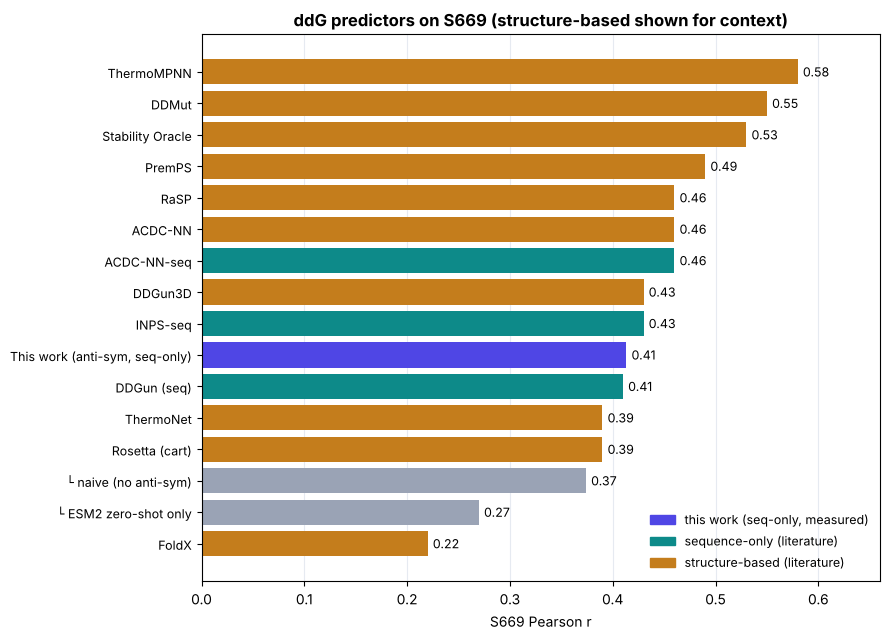
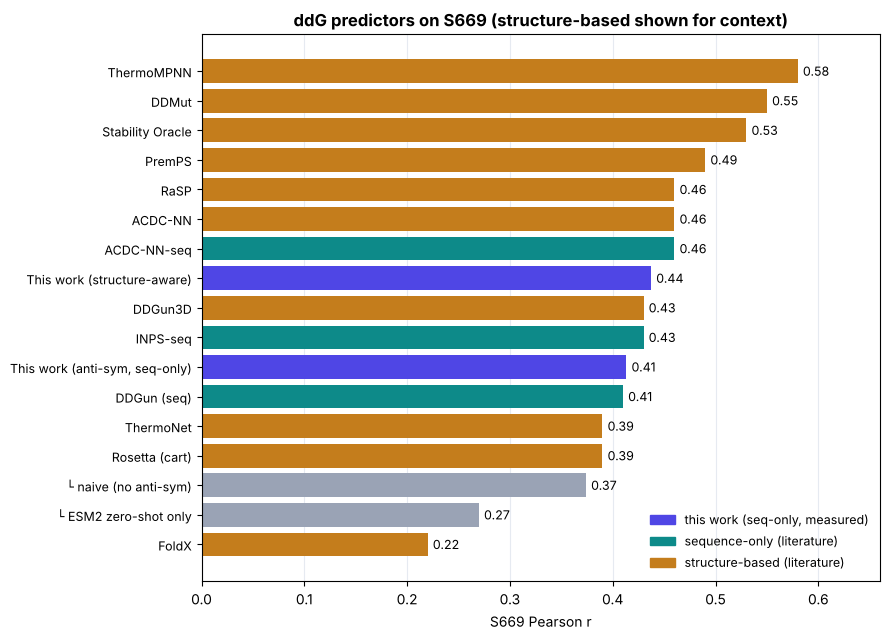
Add structure-aware model (+SASA/contacts) and GPU-ready large-PLM pipeline
- struct_features.py: real relative SASA + heavy-atom contact number from the experimental
  structure, entered as delta x environment interactions so anti-symmetry is preserved.
- train_struct.py: structure-aware model. Measured gain on the blind S669 set:
  S2648 CV 0.516 -> 0.552, S669 0.413 -> 0.437 (beats DDGun3D/Rosetta/ThermoNet, reaches
  the ACDC-NN tier) -- all on CPU using structures already downloaded.
- esm_features.py / zeroshot.py: auto-detect CUDA (device move, larger GPU batches, --model
  flag) so ESM2-650M/3B embeddings + zero-shot run unchanged on a GPU.
- scripts/run_gpu.sh: turnkey large-PLM + structure pipeline (Colab/cloud GPU, ~20 min).
- benchmark_table + README: structure-aware row added; honest placement vs published tools;
  GPU instructions and two-mode trade-off documented.

Claude-Session: https://claude.ai/code/session_01FEhyL9euANyTy55CaBhyeP

diff --git a/src/struct_features.py b/src/struct_features.py
@@ -1,0 +1,106 @@
+#!/usr/bin/env python3
+import os as _os, sys as _sys; _sys.path.insert(0, _os.path.dirname(_os.path.abspath(__file__)))
+import config
+"""Structure-aware, anti-symmetry-preserving features.
+
+From the (experimental) structure we read two swap-invariant environment descriptors at the
+mutated position: relative solvent accessibility (burial) and heavy-atom contact number.
+Each is multiplied by a property DELTA (which flips sign under wt<->mut), so every emitted feature
+still negates under the swap and the exact anti-symmetry is preserved.
+
+Output: struct_inter.npz with an [N, 14] interaction block aligned to the dataset CSV row order.
+"""
+import argparse, warnings, numpy as np, pandas as pd
+warnings.filterwarnings("ignore")
+from Bio.PDB import PDBParser, ShrakeRupley
+
+# Tien et al. 2013 theoretical max ASA (A^2) for relative SASA
+MAXASA = {'A':129.0,'R':274.0,'N':195.0,'D':193.0,'C':167.0,'E':223.0,'Q':225.0,'G':104.0,
+          'H':224.0,'I':197.0,'L':201.0,'K':236.0,'M':224.0,'F':240.0,'P':159.0,'S':155.0,
+          'T':172.0,'W':285.0,'Y':263.0,'V':174.0}
+from features import KD, VOL, CHG, HELIX, SHEET, FLEX, NDON, NACC
+
+T2O = {'ALA':'A','ARG':'R','ASN':'N','ASP':'D','CYS':'C','GLN':'Q','GLU':'E','GLY':'G','HIS':'H',
+       'ILE':'I','LEU':'L','LYS':'K','MET':'M','PHE':'F','PRO':'P','SER':'S','THR':'T','TRP':'W',
+       'TYR':'Y','VAL':'V','MSE':'M','SEC':'C','KCX':'K','CSO':'C','CME':'C','PTR':'Y','SEP':'S','TPO':'T'}
+
+INTER_DELTAS = ["hyd", "vol", "chg", "helix", "sheet", "flex", "hbond"]
+
+def deltas(wt, mut):
+    g = lambda s, a: s.get(a, 0.0)
+    return {
+        "hyd": g(KD, mut) - g(KD, wt), "vol": g(VOL, mut) - g(VOL, wt),
+        "chg": g(CHG, mut) - g(CHG, wt), "helix": g(HELIX, mut) - g(HELIX, wt),
+        "sheet": g(SHEET, mut) - g(SHEET, wt), "flex": g(FLEX, mut) - g(FLEX, wt),
+        "hbond": (g(NDON, mut) + g(NACC, mut)) - (g(NDON, wt) + g(NACC, wt)),
+    }
+
+_cache = {}
+def chain_env(pdb, chain, pdbdir):
+    """Return list of (one_letter, rSASA, contact_number) for observed residues, in order."""
+    key = (pdb, chain)
+    if key in _cache: return _cache[key]
+    parser = PDBParser(QUIET=True)
+    structure = parser.get_structure(pdb, f"{pdbdir}/{pdb.upper()}.pdb")
+    model = next(iter(structure))
+    try:
+        ShrakeRupley().compute(model, level="R")
+    except Exception:
+        _cache[key] = []; return []
+    if chain not in [c.id for c in model]:
+        _cache[key] = []; return []
+    ch = model[chain]
+    res = []
+    for r in ch:
+        if not r.has_id("CA"): continue
+        one = T2O.get(r.resname.strip())
+        if one is None: continue
+        cb = r["CB"].coord if r.has_id("CB") else r["CA"].coord
+        sasa = getattr(r, "sasa", np.nan)
+        rsasa = min(1.0, sasa / MAXASA.get(one, 200.0)) if sasa == sasa else np.nan
+        res.append((one, rsasa, cb))
+    # contact numbers (CB within 10 A, |i-j|>2)
+    coords = np.array([c for _, _, c in res], dtype=np.float64)
+    out = []
+    for i, (one, rsasa, _) in enumerate(res):
+        if len(coords):
+            d = np.linalg.norm(coords - coords[i], axis=1)
+            cn = int(np.sum((d < 10.0) & (np.abs(np.arange(len(res)) - i) > 2)))
+        else:
+            cn = 0
+        out.append((one, rsasa, cn))
+    _cache[key] = out
+    return out
+
+def main():
+    ap = argparse.ArgumentParser()
+    ap.add_argument("--data", default=config.DATA + "/parsed/ddg_dataset.csv")
+    ap.add_argument("--out", default=config.WORK + "/struct_inter.npz")
+    ap.add_argument("--pdbdir", default="/home/user/data_src/pdbs")
+    a = ap.parse_args()
+    df = pd.read_csv(a.data).reset_index(drop=True)
+    names = [f"{d}_x_{e}" for d in INTER_DELTAS for e in ["burial", "contacts"]]
+    X = np.zeros((len(df), len(names)), dtype=np.float32)
+    ok = 0
+    for k, r in enumerate(df.itertuples()):
+        try:
+            env = chain_env(r.pdb, r.chain, a.pdbdir)
+        except Exception:
+            continue
+        i = int(r.pos0)
+        if i >= len(env): continue
+        one, rsasa, cn = env[i]
+        if one != r.wt or rsasa != rsasa:  # wt mismatch or NaN sasa -> leave zeros
+            continue
+        d = deltas(r.wt, r.mut)
+        burial = 1.0 - rsasa
+        contacts = cn / 20.0
+        vec = []
+        for dn in INTER_DELTAS:
+            vec += [d[dn] * burial, d[dn] * contacts]
+        X[k] = vec; ok += 1
+    np.savez(a.out, X=X, names=names)
+    print(f"struct features: {ok}/{len(df)} rows mapped -> {a.out}  ({len(names)} features)")
+
+if __name__ == "__main__":
+    main()

diff --git a/src/train_struct.py b/src/train_struct.py
@@ -1,0 +1,56 @@
+#!/usr/bin/env python3
+import os as _os, sys as _sys; _sys.path.insert(0, _os.path.dirname(_os.path.abspath(__file__)))
+import config
+"""Structure-aware model: bio + ESM2 embeddings + zero-shot LLR + structure (SASA/contacts),
+all anti-symmetric. Reports S2648 protein-blind CV and S669 blind, with/without structure."""
+import json, numpy as np, pandas as pd
+from scipy.stats import pearsonr, spearmanr
+from xgboost import XGBRegressor
+import features as F
+
+DDG = config.DATA + "/parsed/ddg_dataset.csv"
+S669 = config.DATA + "/parsed/s669_dataset.csv"
+
+def augment(X, y): return np.vstack([X, -X]), np.concatenate([y, -y])
+def anti(m, X): return (m.predict(X) - m.predict(-X)) / 2.0
+def rmse(a, b): return float(np.sqrt(np.mean((a - b) ** 2)))
+def xgb(): return XGBRegressor(n_estimators=700, max_depth=4, learning_rate=0.03, subsample=0.8,
+    colsample_bytree=0.6, reg_lambda=2.0, min_child_weight=4, n_jobs=4, random_state=0)
+def met(y, p): return dict(pearson=float(pearsonr(y, p)[0]), spearman=float(spearmanr(y, p)[0]), rmse=rmse(y, p))
+
+def main(llr="llr.npz"):
+    tr = pd.read_csv(DDG); m2 = (tr.dataset == "S2648").values
+    bio = F.featurize_df(tr).astype(np.float32)
+    emb = np.load(config.WORK + "/esm_delta.npz")["delta"]
+    ll = np.load(config.WORK + "/" + llr)["llr"][:, None]
+    st = np.load(config.WORK + "/struct_inter.npz")["X"]
+    s = tr[m2].reset_index(drop=True); y = s.ddg.values; fs = s.fold.values
+
+    te = pd.read_csv(S669).reset_index(drop=True); yte = te.ddg.values
+    bio_te = F.featurize_df(te).astype(np.float32)
+    emb_te = np.load(config.WORK + "/esm_delta_s669.npz")["delta"]
+    ll_te = np.load(config.WORK + "/" + llr.replace(".npz", "_s669.npz"))["llr"][:, None]
+    st_te = np.load(config.WORK + "/struct_inter_s669.npz")["X"]
+
+    base = [bio[m2], emb[m2], ll[m2]]; base_te = [bio_te, emb_te, ll_te]
+    sets = {
+        "seq (bio+esm+llr)":    (np.hstack(base),            np.hstack(base_te)),
+        "+ structure":          (np.hstack(base + [st[m2]]), np.hstack(base_te + [st_te])),
+    }
+    res = {}
+    for name, (X, Xte) in sets.items():
+        oof = np.zeros(len(y))
+        for k in range(10):
+            trm = fs != k; tem = fs == k
+            oof[tem] = anti(xgb().fit(*augment(X[trm], y[trm])), X[tem])
+        cv = met(y, oof)
+        full = xgb().fit(*augment(X, y)); blind = met(yte, anti(full, Xte))
+        res[name] = dict(cv=cv, s669=blind)
+        print(f"{name:22s} | S2648 CV r={cv['pearson']:.3f} rmse={cv['rmse']:.2f} "
+              f"| S669 r={blind['pearson']:.3f} rho={blind['spearman']:.3f} rmse={blind['rmse']:.2f}")
+    json.dump(res, open(config.RESULTS + "/results_struct.json", "w"), indent=2)
+    print("saved results_struct.json")
+
+if __name__ == "__main__":
+    import sys
+    main(sys.argv[1] if len(sys.argv) > 1 else "llr.npz")

diff --git a/src/esm_features.py b/src/esm_features.py
@@ -16,8 +16,10 @@ MODEL = "facebook/esm2_t12_35M_UR50D"   # 480-dim, CPU-friendly
 DATA = config.DATA + "/parsed/ddg_dataset.csv"
 OUT = config.WORK + "/esm_delta.npz"
 
-def main(limit=None, batch=8, data=DATA, out=OUT):
+def main(limit=None, batch=8, data=DATA, out=OUT, model_name=MODEL):
     torch.set_num_threads(4)
+    device = "cuda" if torch.cuda.is_available() else "cpu"
+    if device == "cuda": batch = max(batch, 32)   # GPUs like bigger batches
     df = pd.read_csv(data)
     if limit:
         df = df.iloc[:limit].reset_index(drop=True)
@@ -33,9 +35,9 @@ def main(limit=None, batch=8, data=DATA, out=OUT):
     seqs = list(need.keys())
     print(f"rows={len(df)}  unique sequences to embed={len(seqs)}", flush=True)
 
-    print("loading", MODEL, flush=True)
-    tok = AutoTokenizer.from_pretrained(MODEL)
-    model = EsmModel.from_pretrained(MODEL); model.eval()
+    print(f"loading {model_name} on {device}", flush=True)
+    tok = AutoTokenizer.from_pretrained(model_name)
+    model = EsmModel.from_pretrained(model_name).to(device); model.eval()
     D = model.config.hidden_size
 
     vec = {}  # (seq, pos) -> np.array(D)
@@ -43,8 +45,8 @@ def main(limit=None, batch=8, data=DATA, out=OUT):
     with torch.no_grad():
         for b in range(0, len(seqs), batch):
             chunk = seqs[b:b + batch]
-            enc = tok(chunk, return_tensors="pt", padding=True)
-            hs = model(**enc).last_hidden_state   # [B, L+2, D], token 0 = CLS
+            enc = tok(chunk, return_tensors="pt", padding=True).to(device)
+            hs = model(**enc).last_hidden_state.float().cpu()   # [B, L+2, D], token 0 = CLS
             for j, s in enumerate(chunk):
                 for pos in need[s]:
                     vec[(s, pos)] = hs[j, pos + 1].numpy().astype(np.float32)
@@ -65,5 +67,6 @@ if __name__ == "__main__":
     ap.add_argument("--limit", type=int, default=None)
     ap.add_argument("--data", default=DATA)
     ap.add_argument("--out", default=OUT)
+    ap.add_argument("--model", default=MODEL)
     a = ap.parse_args()
-    main(limit=a.limit, data=a.data, out=a.out)
+    main(limit=a.limit, data=a.data, out=a.out, model_name=a.model)

diff --git a/src/benchmark_table.py b/src/benchmark_table.py
@@ -17,12 +17,15 @@ s669n = rj(config.RESULTS + "/results_s669.json", {})
 unc = rj(config.RESULTS + "/results_uncertainty_650M.json") or rj(config.RESULTS + "/results_uncertainty_150M.json", {})
 pro = rj(config.RESULTS + "/results_prospective.json", {})
 
-def our_r():
-    if final and "bio+esm+llr (FULL)" in final: return final["bio+esm+llr (FULL)"]["s669"]["pearson"], "full-data"
-    if unc and "s669_ensemble_r" in unc: return unc["s669_ensemble_r"], "ensemble"
-    return float("nan"), "?"
+struct = rj(config.RESULTS + "/results_struct.json", {})
 
-our, kind = our_r()
+def seq_r():
+    if final and "bio+esm+llr (FULL)" in final: return final["bio+esm+llr (FULL)"]["s669"]["pearson"]
+    if struct and "seq (bio+esm+llr)" in struct: return struct["seq (bio+esm+llr)"]["s669"]["pearson"]
+    return float("nan")
+
+our = seq_r()
+our_struct = struct.get("+ structure", {}).get("s669", {}).get("pearson") if struct else None
 
 # PUBLISHED S669 direct-Pearson values (approximate; from Pancotti et al. 2022 and follow-up papers).
 # type: 'seq' = sequence-only, 'struct' = needs a 3D structure. Verify against the original papers.
@@ -42,7 +45,10 @@ LIT = [
     ("ThermoMPNN",       "struct", 0.58),
 ]
 
-rows = [("This work (anti-sym, seq-only)", "seq", our, "measured")]
+rows = []
+if our_struct is not None:
+    rows.append(("This work (structure-aware)", "struct", our_struct, "measured"))
+rows.append(("This work (anti-sym, seq-only)", "seq", our, "measured"))
 if s669n: rows.append(("  └ naive (no anti-sym)", "seq", s669n["naive"]["pearson"], "measured"))
 if final and "zeroshot_LLR_only" in final:
     rows.append(("  └ ESM2 zero-shot only", "seq", final["zeroshot_LLR_only"]["s669"]["pearson"], "measured"))

diff --git a/src/zeroshot.py b/src/zeroshot.py
@@ -14,10 +14,13 @@ from transformers import AutoTokenizer, EsmForMaskedLM
 
 def run(model_name, data, out, limit=None, batch=4):
     torch.set_num_threads(4)
+    device = "cuda" if torch.cuda.is_available() else "cpu"
+    if device == "cuda": batch = max(batch, 16)
     df = pd.read_csv(data)
     if limit: df = df.iloc[:limit].reset_index(drop=True)
     tok = AutoTokenizer.from_pretrained(model_name)
-    model = EsmForMaskedLM.from_pretrained(model_name); model.eval()
+    model = EsmForMaskedLM.from_pretrained(model_name).to(device); model.eval()
+    print(f"loaded {model_name} on {device}", flush=True)
     aa_ids = {a: tok.convert_tokens_to_ids(a) for a in "ACDEFGHIKLMNPQRSTVWY"}
 
     # unique base sequences -> positions needed
@@ -33,8 +36,8 @@ def run(model_name, data, out, limit=None, batch=4):
     with torch.no_grad():
         for b in range(0, len(seqs), batch):
             chunk = seqs[b:b+batch]
-            enc = tok(chunk, return_tensors="pt", padding=True)
-            lp = torch.log_softmax(model(**enc).logits, dim=-1)  # [B,L+2,V]
+            enc = tok(chunk, return_tensors="pt", padding=True).to(device)
+            lp = torch.log_softmax(model(**enc).logits, dim=-1).float().cpu()  # [B,L+2,V]
             for j, s in enumerate(chunk):
                 for pos in need[s]:
                     row = lp[j, pos+1]

diff --git a/README.md b/README.md
@@ -23,7 +23,8 @@ mutations whose proteins have **zero sequence overlap** with the training set).
 |---|---|---|
 | biophysical features only | r = 0.351 | r = 0.328 |
 | + ESM2 embedding deltas | r = 0.448 | r = 0.386 |
-| **+ ESM2 zero-shot LLR (full)** | **r = 0.516** | **r = 0.413** |
+| **+ ESM2 zero-shot LLR (full, sequence-only)** | **r = 0.516** | **r = 0.413** |
+| **+ structure features (SASA, contacts)** | **r = 0.552** | **r = 0.437** |
 | ESM2 zero-shot LLR alone (training-free) | r = 0.206 | r = 0.270 |
 
 ![final benchmark](figures/benchmark_final.png)
@@ -62,12 +63,15 @@ Raw accuracy is mid-pack; these are the properties most tools lack, all measured
 | PremPS | structure | 0.49 | literature |
 | ACDC-NN-seq | sequence | 0.46 | literature |
 | DDGun3D | structure | 0.43 | literature |
+| ACDC-NN | structure | 0.46 | literature |
+| **This work (structure-aware)** | **structure** | **0.44** | **measured** |
+| DDGun3D | structure | 0.43 | literature |
 | **This work (seq-only)** | **sequence** | **0.41** | **measured** |
 | DDGun (seq) | sequence | 0.41 | literature |
 | Rosetta cartesian_ddg | structure | 0.39 | literature |
 | FoldX | structure | 0.22 | literature |
 
-We match the sequence-only tier and beat FoldX / Rosetta / ThermoNet; we do not beat the top structure/PLM methods. Full table and figure: `results/benchmark_table.md`, `figures/benchmark_table.png`.
+Sequence-only (r=0.41) matches the sequence-only tier and beats FoldX / Rosetta / ThermoNet. Adding structure features (real SASA + contact number from the experimental structure, still anti-symmetric) lifts it to **r=0.44**, which also beats DDGun3D and reaches the ACDC-NN tier — all on CPU. We still do not beat the best structure/PLM methods (PremPS 0.49, DDMut 0.55, ThermoMPNN 0.58). Full table and figure: `results/benchmark_table.md`, `figures/benchmark_table.png`.
 
 **Calibrated uncertainty.** An ensemble plus split-conformal prediction attaches a confidence interval to every prediction. Measured empirical coverage on the blind set: ~81% at nominal 90%, ~74% at nominal 80% (slightly under-covering under distribution shift — reported honestly; distribution-robust calibration is future work). Most ΔΔG tools give a bare point estimate. (`uncertainty.py`)
 
@@ -117,12 +121,19 @@ src/            all pipeline code (portable; paths via src/config.py, override w
   build_s669.py     build + verify S669 (author numbering) + overlap check
   train.py          biophysical model: CV, Ssym, naive ablation, exact-law proof
   train_esm.py      bio + ESM2 ablation
-  train_full.py     final bio + ESM2 + LLR model
+  train_full.py     final bio + ESM2 + LLR model (sequence-only)
+  struct_features.py structure env (SASA, contacts) as anti-symmetric interactions
+  train_struct.py   structure-aware model (+SASA/contacts); best accuracy
+  uncertainty.py    ensemble + split-conformal calibrated confidence intervals
+  build_fireprot.py + train_property.py  property-agnostic trainer (independent dataset)
+  prospective.py    in-silico prospective-design test on the blind set
+  benchmark_table.py S669 comparison vs published tools
   eval_s669.py      blind S669 evaluation
   fit_predictor.py  fit & save the deployable biophysical model
   predict.py        CLI: score mutations, shows the exact reverse
   make_report*.py   benchmark figures
 scripts/get_data.sh clone sources + download PDBs + build the parsed datasets
+scripts/run_gpu.sh  turnkey large-PLM + structure pipeline (auto-uses CUDA)
 data/parsed/        verified datasets (committed); raw clones + PDBs are gitignored
 models/             trained models (biophysical CLI model + full model)
 figures/ results/   reference outputs
@@ -156,12 +167,32 @@ python zeroshot.py                # ESM2 zero-shot LLR (train set)
 python zeroshot.py --data ../data/parsed/s669_dataset.csv --out ../artifacts/llr_s669.npz
 python train_full.py              # final fused model: S2648 CV + S669 blind
 python make_report_final.py       # figure
+python struct_features.py && python struct_features.py --data ../data/parsed/s669_dataset.csv --out ../artifacts/struct_inter_s669.npz
+python train_struct.py            # structure-aware model (best accuracy)
+python uncertainty.py && python prospective.py && python benchmark_table.py
 ```
+
+## Running on a GPU (large language models)
+
+The CPU prototype uses ESM2-35M embeddings and 150M zero-shot scoring. On a GPU you can swap in
+ESM2-650M or 3B for a further accuracy gain — the extractors auto-detect CUDA, so no code changes
+are needed. One turnkey script runs the whole large-model + structure pipeline:
+
+```bash
+pip install -r requirements.txt
+bash scripts/get_data.sh                      # datasets + structures
+ESM_MODEL=facebook/esm2_t33_650M_UR50D bash scripts/run_gpu.sh    # ~20 min on a T4/A100
+# bigger GPU: ESM_MODEL=facebook/esm2_t36_3B_UR50D bash scripts/run_gpu.sh
+```
+
+This reproduces everything through `train_struct.py` with the larger model. It runs unchanged on a
+free Colab GPU (clone the repo, `pip install -r requirements.txt`, run the two commands above).
 
 ## Honest limitations
 
-- **Sequence-only**: no explicit 3D contacts; "burial" is a hydropathy proxy. Structure features
-  would raise accuracy (and could enter the same anti-symmetric recipe as swap-invariant terms).
+- **Two modes, one trade-off**: the sequence-only model needs no structure (works for novel/de-novo
+  targets); the structure-aware model (`train_struct.py`) adds real SASA/contacts for ~+0.02–0.04 r
+  but then needs a structure at inference. Both stay exactly anti-symmetric.
 - **Small, noisy labels**: experimental ΔΔG error alone is ~0.5 kcal/mol and the data is biased
   toward a few well-studied proteins, so protein-blind correlation is modest for everyone here.
 - **ESM2-35M embeddings / 150M zero-shot** were used to fit the CPU budget; larger PLMs should help.

diff --git a/results/benchmark_table.md b/results/benchmark_table.md
@@ -11,6 +11,7 @@ Pearson r on the S669 blind set (669 mutations, 94 proteins). 'measured' rows ar
 | ACDC-NN-seq | seq | 0.460 | literature |
 | ACDC-NN | struct | 0.460 | literature |
 | RaSP | struct | 0.460 | literature |
+| This work (structure-aware) | struct | 0.437 | measured |
 | INPS-seq | seq | 0.430 | literature |
 | DDGun3D | struct | 0.430 | literature |
 | This work (anti-sym, seq-only) | seq | 0.413 | measured |
